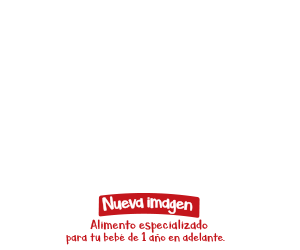
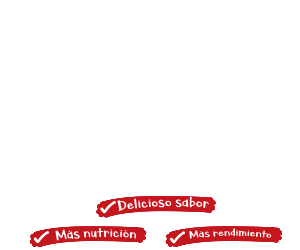
ok

Changed region(s): [[0.09, 0.756, 0.96, 1.0]]

diff --git a/Ceteco/CrecimientoBalanceado2/300x250/index.html b/Ceteco/CrecimientoBalanceado2/300x250/index.html
@@ -1,12 +1,12 @@
 <!DOCTYPE html>
[2 lines of base64/hex data omitted]
   <meta charset="utf-8">
   <meta name="viewport" content="width=device-width,minimum-scale=1">
   <meta name="generator" content="Google Web Designer 9.0.1.0902">
   <meta name="environment" content="gwd-googleads"><meta name="ad.size" content="width=300,height=250">
   <script async="" src="https://cdn.ampproject.org/amp4ads-v0.js"></script>
   <style amp4ads-boilerplate="">body{visibility:hidden}</style>
-  <style amp-custom="">html,body{width:100%;height:100%;margin:0px}p,h1,h2,h3{margin:0px}.gwd-page-container{position:relative;width:100%;height:100%}.gwd-page-content{background-color:transparent;transform:matrix3d(1, 0, 0, 0, 0, 1, 0, 0, 0, 0, 1, 0, 0, 0, 0, 1);-webkit-transform:matrix3d(1, 0, 0, 0, 0, 1, 0, 0, 0, 0, 1, 0, 0, 0, 0, 1);-moz-transform:matrix3d(1, 0, 0, 0, 0, 1, 0, 0, 0, 0, 1, 0, 0, 0, 0, 1);perspective:1400px;-webkit-perspective:1400px;-moz-perspective:1400px;transform-style:preserve-3d;-webkit-transform-style:preserve-3d;-moz-transform-style:preserve-3d;position:absolute}.gwd-page-container-wrapper{width:300px;height:250px}.gwd-page-wrapper{background-color:#fff;position:absolute;top:0px;left:0px;transform:translateZ(0);-webkit-transform:translateZ(0);-moz-transform:translateZ(0);width:300px;height:250px}.gwd-page-size{width:300px;height:250px}#pagedeck>.amp-carousel-button-prev,#pagedeck>.amp-carousel-button-next{display:none}.gwd-amp-img-hngt{position:absolute;width:300px;height:250px;left:50%;transform-style:preserve-3d;-webkit-transform-style:preserve-3d;-moz-transform-style:preserve-3d;top:50%;transform:translate3d(-150px, -125px, 0);-webkit-transform:translate3d(-150px, -125px, 0);-moz-transform:translate3d(-150px, -125px, 0)}.gwd-amp-img-ov7r{position:absolute;width:300px;height:250px;left:50%;transform-style:preserve-3d;-webkit-transform-style:preserve-3d;-moz-transform-style:preserve-3d;top:50%;transform:translate3d(-300px, -125px, 0);-webkit-transform:translate3d(-300px, -125px, 0);-moz-transform:translate3d(-300px, -125px, 0);opacity:0}.gwd-amp-img-oeb3{position:absolute;width:300px;height:250px;left:50%;transform-style:preserve-3d;-webkit-transform-style:preserve-3d;-moz-transform-style:preserve-3d;top:50%;transform-origin:152px 187px 0px;-webkit-transform-origin:152px 187px 0px;-moz-transform-origin:152px 187px 0px;transform:translate3d(-150px, -125px, 0) scale3d(.22, .22, .22);-webkit-transform:translate3d(-150px, -125px, 0) scale3d(.22, .22, .22);-moz-transform:translate3d(-150px, -125px, 0) scale3d(.22, .22, .22);opacity:0}.gwd-amp-img-u6o0{position:absolute;width:300px;height:250px;left:50%;transform-style:preserve-3d;-webkit-transform-style:preserve-3d;-moz-transform-style:preserve-3d;top:50%;transform:translate3d(-280px, -125px, 0);-webkit-transform:translate3d(-280px, -125px, 0);-moz-transform:translate3d(-280px, -125px, 0);opacity:0}.gwd-amp-img-1jvn{position:absolute;width:300px;height:250px;left:50%;transform-style:preserve-3d;-webkit-transform-style:preserve-3d;-moz-transform-style:preserve-3d;top:50%;transform:translate3d(-40px, -125px, 0);-webkit-transform:translate3d(-40px, -125px, 0);-moz-transform:translate3d(-40px, -125px, 0);opacity:0}#page1.gwd-play-animation .gwd-gen-q78fgwdanimation{animation:4.5s linear 0s 1 normal forwards gwd-gen-q78fgwdanimation_gwd-keyframes;-webkit-animation:4.5s linear 0s 1 normal forwards gwd-gen-q78fgwdanimation_gwd-keyframes;-moz-animation:4.5s linear 0s 1 normal forwards gwd-gen-q78fgwdanimation_gwd-keyframes}#page1.gwd-play-animation .gwd-gen-12rzgwdanimation{animation:4.5s linear 0s 1 normal forwards gwd-gen-12rzgwdanimation_gwd-keyframes;-webkit-animation:4.5s linear 0s 1 normal forwards gwd-gen-12rzgwdanimation_gwd-keyframes;-moz-animation:4.5s linear 0s 1 normal forwards gwd-gen-12rzgwdanimation_gwd-keyframes}#page1.gwd-play-animation .gwd-gen-o9vbgwdanimation{animation:1.3s linear 0s 1 normal forwards gwd-gen-o9vbgwdanimation_gwd-keyframes;-webkit-animation:1.3s linear 0s 1 normal forwards gwd-gen-o9vbgwdanimation_gwd-keyframes;-moz-animation:1.3s linear 0s 1 normal forwards gwd-gen-o9vbgwdanimation_gwd-keyframes}#page1.gwd-play-animation .gwd-gen-1jnggwdanimation{animation:1s linear 0s 1 normal forwards gwd-gen-1jnggwdanimation_gwd-keyframes;-webkit-animation:1s linear 0s 1 normal forwards gwd-gen-1jnggwdanimation_gwd-keyframes;-moz-animation:1s linear 0s 1 normal forwards gwd-gen-1jnggwdanimation_gwd-keyframes}#page1.label-1 .gwd-gen-1jnggwdanimation{animation:1s linear 0s 1 normal forwards gwd-gen-1jnggwdanimation_gwd-keyframes_label-1;-webkit-animation:1s linear 0s 1 normal forwards gwd-gen-1jnggwdanimation_gwd-keyframes_label-1;-moz-animation:1s linear 0s 1 normal forwards gwd-gen-1jnggwdanimation_gwd-keyframes_label-1}#page1.label-1 .gwd-gen-o9vbgwdanimation{animation:1.3s linear 0s 1 normal forwards gwd-gen-o9vbgwdanimation_gwd-keyframes_label-1;-webkit-animation:1.3s linear 0s 1 normal forwards gwd-gen-o9vbgwdanimation_gwd-keyframes_label-1;-moz-animation:1.3s linear 0s 1 normal forwards gwd-gen-o9vbgwdanimation_gwd-keyframes_label-1}#page1.label-1 .gwd-gen-12rzgwdanimation{animation:4.5s linear 0s 1 normal forwards gwd-gen-12rzgwdanimation_gwd-keyframes_label-1;-webkit-animation:4.5s linear 0s 1 normal forwards gwd-gen-12rzgwdanimation_gwd-keyframes_label-1;-moz-animation:4.5s linear 0s 1 normal forwards gwd-gen-12rzgwdanimation_gwd-keyframes_label-1}#page1.label-1 .gwd-gen-q78fgwdanimation{animation:4.5s linear 0s 1 normal forwards gwd-gen-q78fgwdanimation_gwd-keyframes_label-1;-webkit-animation:4.5s linear 0s 1 normal forwards gwd-gen-q78fgwdanimation_gwd-keyframes_label-1;-moz-animation:4.5s linear 0s 1 normal forwards gwd-gen-q78fgwdanimation_gwd-keyframes_label-1}#page1.gwd-play-animation .event-1-animation{animation:6.5s linear 0s 1 normal forwards gwd-empty-animation;-webkit-animation:6.5s linear 0s 1 normal forwards gwd-empty-animation;-moz-animation:6.5s linear 0s 1 normal forwards gwd-empty-animation}#page1.label-1 .event-1-animation{animation:6.5s linear 0s 1 normal forwards gwd-empty-animation_label-1;-webkit-animation:6.5s linear 0s 1 normal forwards gwd-empty-animation_label-1;-moz-animation:6.5s linear 0s 1 normal forwards gwd-empty-animation_label-1}</style>
+  <style amp-custom="">html,body{width:100%;height:100%;margin:0px}p,h1,h2,h3{margin:0px}.gwd-page-container{position:relative;width:100%;height:100%}.gwd-page-content{background-color:transparent;transform:matrix3d(1, 0, 0, 0, 0, 1, 0, 0, 0, 0, 1, 0, 0, 0, 0, 1);-webkit-transform:matrix3d(1, 0, 0, 0, 0, 1, 0, 0, 0, 0, 1, 0, 0, 0, 0, 1);-moz-transform:matrix3d(1, 0, 0, 0, 0, 1, 0, 0, 0, 0, 1, 0, 0, 0, 0, 1);perspective:1400px;-webkit-perspective:1400px;-moz-perspective:1400px;transform-style:preserve-3d;-webkit-transform-style:preserve-3d;-moz-transform-style:preserve-3d;position:absolute}.gwd-page-container-wrapper{width:300px;height:250px}.gwd-page-wrapper{background-color:#fff;position:absolute;top:0px;left:0px;transform:translateZ(0);-webkit-transform:translateZ(0);-moz-transform:translateZ(0);width:300px;height:250px}.gwd-page-size{width:300px;height:250px}#pagedeck>.amp-carousel-button-prev,#pagedeck>.amp-carousel-button-next{display:none}.gwd-amp-img-hngt{position:absolute;width:300px;height:250px;left:50%;transform-style:preserve-3d;-webkit-transform-style:preserve-3d;-moz-transform-style:preserve-3d;top:50%;transform:translate3d(-150px, -125px, 0);-webkit-transform:translate3d(-150px, -125px, 0);-moz-transform:translate3d(-150px, -125px, 0)}.gwd-amp-img-ov7r{position:absolute;width:300px;height:250px;left:50%;transform-style:preserve-3d;-webkit-transform-style:preserve-3d;-moz-transform-style:preserve-3d;top:50%;transform:translate3d(-300px, -125px, 0);-webkit-transform:translate3d(-300px, -125px, 0);-moz-transform:translate3d(-300px, -125px, 0);opacity:0}.gwd-amp-img-oeb3{position:absolute;width:300px;height:250px;left:50%;transform-style:preserve-3d;-webkit-transform-style:preserve-3d;-moz-transform-style:preserve-3d;top:50%;transform-origin:152px 187px 0px;-webkit-transform-origin:152px 187px 0px;-moz-transform-origin:152px 187px 0px;transform:translate3d(-150px, -125px, 0) scale3d(.22, .22, .22);-webkit-transform:translate3d(-150px, -125px, 0) scale3d(.22, .22, .22);-moz-transform:translate3d(-150px, -125px, 0) scale3d(.22, .22, .22);opacity:0}.gwd-amp-img-u6o0{position:absolute;width:300px;height:250px;left:50%;transform-style:preserve-3d;-webkit-transform-style:preserve-3d;-moz-transform-style:preserve-3d;top:50%;transform:translate3d(-280px, -125px, 0);-webkit-transform:translate3d(-280px, -125px, 0);-moz-transform:translate3d(-280px, -125px, 0);opacity:0}.gwd-amp-img-1jvn{position:absolute;width:300px;height:250px;left:50%;transform-style:preserve-3d;-webkit-transform-style:preserve-3d;-moz-transform-style:preserve-3d;top:50%;transform:translate3d(-40px, -125px, 0);-webkit-transform:translate3d(-40px, -125px, 0);-moz-transform:translate3d(-40px, -125px, 0);opacity:0}#page1.gwd-play-animation .gwd-gen-q78fgwdanimation{animation:1.9s linear 0s 1 normal forwards gwd-gen-q78fgwdanimation_gwd-keyframes;-webkit-animation:1.9s linear 0s 1 normal forwards gwd-gen-q78fgwdanimation_gwd-keyframes;-moz-animation:1.9s linear 0s 1 normal forwards gwd-gen-q78fgwdanimation_gwd-keyframes}#page1.gwd-play-animation .gwd-gen-12rzgwdanimation{animation:1.6s linear 0s 1 normal forwards gwd-gen-12rzgwdanimation_gwd-keyframes;-webkit-animation:1.6s linear 0s 1 normal forwards gwd-gen-12rzgwdanimation_gwd-keyframes;-moz-animation:1.6s linear 0s 1 normal forwards gwd-gen-12rzgwdanimation_gwd-keyframes}#page1.gwd-play-animation .gwd-gen-o9vbgwdanimation{animation:1.3s linear 0s 1 normal forwards gwd-gen-o9vbgwdanimation_gwd-keyframes;-webkit-animation:1.3s linear 0s 1 normal forwards gwd-gen-o9vbgwdanimation_gwd-keyframes;-moz-animation:1.3s linear 0s 1 normal forwards gwd-gen-o9vbgwdanimation_gwd-keyframes}#page1.gwd-play-animation .gwd-gen-1jnggwdanimation{animation:1s linear 0s 1 normal forwards gwd-gen-1jnggwdanimation_gwd-keyframes;-webkit-animation:1s linear 0s 1 normal forwards gwd-gen-1jnggwdanimation_gwd-keyframes;-moz-animation:1s linear 0s 1 normal forwards gwd-gen-1jnggwdanimation_gwd-keyframes}#page1.label-1 .gwd-gen-1jnggwdanimation{animation:1s linear 0s 1 normal forwards gwd-gen-1jnggwdanimation_gwd-keyframes_label-1;-webkit-animation:1s linear 0s 1 normal forwards gwd-gen-1jnggwdanimation_gwd-keyframes_label-1;-moz-animation:1s linear 0s 1 normal forwards gwd-gen-1jnggwdanimation_gwd-keyframes_label-1}#page1.label-1 .gwd-gen-o9vbgwdanimation{animation:1.3s linear 0s 1 normal forwards gwd-gen-o9vbgwdanimation_gwd-keyframes_label-1;-webkit-animation:1.3s linear 0s 1 normal forwards gwd-gen-o9vbgwdanimation_gwd-keyframes_label-1;-moz-animation:1.3s linear 0s 1 normal forwards gwd-gen-o9vbgwdanimation_gwd-keyframes_label-1}#page1.label-1 .gwd-gen-12rzgwdanimation{animation:1.6s linear 0s 1 normal forwards gwd-gen-12rzgwdanimation_gwd-keyframes_label-1;-webkit-animation:1.6s linear 0s 1 normal forwards gwd-gen-12rzgwdanimation_gwd-keyframes_label-1;-moz-animation:1.6s linear 0s 1 normal forwards gwd-gen-12rzgwdanimation_gwd-keyframes_label-1}#page1.label-1 .gwd-gen-q78fgwdanimation{animation:1.9s linear 0s 1 normal forwards gwd-gen-q78fgwdanimation_gwd-keyframes_label-1;-webkit-animation:1.9s linear 0s 1 normal forwards gwd-gen-q78fgwdanimation_gwd-keyframes_label-1;-moz-animation:1.9s linear 0s 1 normal forwards gwd-gen-q78fgwdanimation_gwd-keyframes_label-1}#page1.gwd-play-animation .event-1-animation{animation:4s linear 0s 1 normal forwards gwd-empty-animation;-webkit-animation:4s linear 0s 1 normal forwards gwd-empty-animation;-moz-animation:4s linear 0s 1 normal forwards gwd-empty-animation}#page1.label-1 .event-1-animation{animation:4s linear 0s 1 normal forwards gwd-empty-animation_label-1;-webkit-animation:4s linear 0s 1 normal forwards gwd-empty-animation_label-1;-moz-animation:4s linear 0s 1 normal forwards gwd-empty-animation_label-1}</style>
   <script data-source="https://cdn.ampproject.org/v0/amp-gwd-animation-0.1.js" async="" custom-element="amp-gwd-animation" src="https://cdn.ampproject.org/v0/amp-gwd-animation-0.1.js"></script>
   <script data-source="https://cdn.ampproject.org/v0/amp-ad-exit-0.1.js" async="" custom-element="amp-ad-exit" src="https://cdn.ampproject.org/v0/amp-ad-exit-0.1.js"></script>
   <script data-source="https://cdn.ampproject.org/v0/amp-carousel-0.1.js" async="" custom-element="amp-carousel" src="https://cdn.ampproject.org/v0/amp-carousel-0.1.js"></script>
@@ -22,7 +22,7 @@
           <amp-img id="3" src="3.png" class="gwd-amp-img-oeb3 gwd-gen-o9vbgwdanimation" width="300px" height="250px"></amp-img>
           <amp-img id="4" src="4.png" class="gwd-amp-img-u6o0 gwd-gen-12rzgwdanimation" width="300px" height="250px"></amp-img>
           <amp-img id="5" src="5.png" class="gwd-amp-img-1jvn gwd-gen-q78fgwdanimation" width="300px" height="250px"></amp-img>
-          <div class="gwd-animation-event event-1-animation" data-event-name="event-1" data-event-time="6500"></div>
+          <div class="gwd-animation-event event-1-animation" data-event-name="event-1" data-event-time="4000"></div>
         </div>
       </div>
     </amp-carousel>
@@ -34,4 +34,4 @@
   </amp-ad-exit>
 
 
-<style amp-keyframes="">@keyframes gwd-gen-q78fgwdanimation_gwd-keyframes{0%{opacity:0;transform:translate3d(-40px, -125px, 0);-webkit-transform:translate3d(-40px, -125px, 0);-moz-transform:translate3d(-40px, -125px, 0);animation-timing-function:linear;-webkit-animation-timing-function:linear;-moz-animation-timing-function:linear}88.8889%{opacity:0;transform:translate3d(-40px, -125px, 0);-webkit-transform:translate3d(-40px, -125px, 0);-moz-transform:translate3d(-40px, -125px, 0);animation-timing-function:ease;-webkit-animation-timing-function:ease;-moz-animation-timing-function:ease}100%{opacity:1;transform:translate3d(-150px, -125px, 0);-webkit-transform:translate3d(-150px, -125px, 0);-moz-transform:translate3d(-150px, -125px, 0);animation-timing-function:linear;-webkit-animation-timing-function:linear;-moz-animation-timing-function:linear}}@-webkit-keyframes gwd-gen-q78fgwdanimation_gwd-keyframes{0%{opacity:0;-webkit-transform:translate3d(-40px, -125px, 0);-webkit-animation-timing-function:linear}88.8889%{opacity:0;-webkit-transform:translate3d(-40px, -125px, 0);-webkit-animation-timing-function:ease}100%{opacity:1;-webkit-transform:translate3d(-150px, -125px, 0);-webkit-animation-timing-function:linear}}@-moz-keyframes gwd-gen-q78fgwdanimation_gwd-keyframes{0%{opacity:0;-moz-transform:translate3d(-40px, -125px, 0);-moz-animation-timing-function:linear}88.8889%{opacity:0;-moz-transform:translate3d(-40px, -125px, 0);-moz-animation-timing-function:ease}100%{opacity:1;-moz-transform:translate3d(-150px, -125px, 0);-moz-animation-timing-function:linear}}@keyframes gwd-gen-12rzgwdanimation_gwd-keyframes{0%{opacity:0;transform:translate3d(-280px, -125px, 0);-webkit-transform:translate3d(-280px, -125px, 0);-moz-transform:translate3d(-280px, -125px, 0);animation-timing-function:linear;-webkit-animation-timing-function:linear;-moz-animation-timing-function:linear}24.4444%{opacity:0;transform:translate3d(-280px, -125px, 0);-webkit-transform:translate3d(-280px, -125px, 0);-moz-transform:translate3d(-280px, -125px, 0);animation-timing-function:ease;-webkit-animation-timing-function:ease;-moz-animation-timing-function:ease}35.5556%{opacity:1;transform:translate3d(-150px, -125px, 0);-webkit-transform:translate3d(-150px, -125px, 0);-moz-transform:translate3d(-150px, -125px, 0);animation-timing-function:linear;-webkit-animation-timing-function:linear;-moz-animation-timing-function:linear}88.8889%{opacity:1;transform:translate3d(-150px, -125px, 0);-webkit-transform:translate3d(-150px, -125px, 0);-moz-transform:translate3d(-150px, -125px, 0);animation-timing-function:ease;-webkit-animation-timing-function:ease;-moz-animation-timing-function:ease}100%{opacity:0;transform:translate3d(-370px, -125px, 0);-webkit-transform:translate3d(-370px, -125px, 0);-moz-transform:translate3d(-370px, -125px, 0);animation-timing-function:linear;-webkit-animation-timing-function:linear;-moz-animation-timing-function:linear}}@-webkit-keyframes gwd-gen-12rzgwdanimation_gwd-keyframes{0%{opacity:0;-webkit-transform:translate3d(-280px, -125px, 0);-webkit-animation-timing-function:linear}24.4444%{opacity:0;-webkit-transform:translate3d(-280px, -125px, 0);-webkit-animation-timing-function:ease}35.5556%{opacity:1;-webkit-transform:translate3d(-150px, -125px, 0);-webkit-animation-timing-function:linear}88.8889%{opacity:1;-webkit-transform:translate3d(-150px, -125px, 0);-webkit-animation-timing-function:ease}100%{opacity:0;-webkit-transform:translate3d(-370px, -125px, 0);-webkit-animation-timing-function:linear}}@-moz-keyframes gwd-gen-12rzgwdanimation_gwd-keyframes{0%{opacity:0;-moz-transform:translate3d(-280px, -125px, 0);-moz-animation-timing-function:linear}24.4444%{opacity:0;-moz-transform:translate3d(-280px, -125px, 0);-moz-animation-timing-function:ease}35.5556%{opacity:1;-moz-transform:translate3d(-150px, -125px, 0);-moz-animation-timing-function:linear}88.8889%{opacity:1;-moz-transform:translate3d(-150px, -125px, 0);-moz-animation-timing-function:ease}100%{opacity:0;-moz-transform:translate3d(-370px, -125px, 0);-moz-animation-timing-function:linear}}@keyframes gwd-gen-o9vbgwdanimation_gwd-keyframes{0%{opacity:0;transform:translate3d(-150px, -125px, 0) scale3d(.22, .22, .22);-webkit-transform:translate3d(-150px, -125px, 0) scale3d(.22, .22, .22);-moz-transform:translate3d(-150px, -125px, 0) scale3d(.22, .22, .22);animation-timing-function:linear;-webkit-animation-timing-function:linear;-moz-animation-timing-function:linear}61.5385%{opacity:0;transform:translate3d(-150px, -125px, 0) scale3d(.22, .22, .22);-webkit-transform:translate3d(-150px, -125px, 0) scale3d(.22, .22, .22);-moz-transform:translate3d(-150px, -125px, 0) scale3d(.22, .22, .22);animation-timing-function:ease;-webkit-animation-timing-function:ease;-moz-animation-timing-function:ease}100%{opacity:1;transform:translate3d(-152px, -125px, 0) scale3d(1, 1, 1);-webkit-transform:translate3d(-152px, -125px, 0) scale3d(1, 1, 1);-moz-transform:translate3d(-152px, -125px, 0) scale3d(1, 1, 1);animation-timing-function:linear;-webkit-animation-timing-function:linear;-moz-animation-timing-function:linear}}@-webkit-keyframes gwd-gen-o9vbgwdanimation_gwd-keyframes{0%{opacity:0;-webkit-transform:translate3d(-150px, -125px, 0) scale3d(.22, .22, .22);-webkit-animation-timing-function:linear}61.5385%{opacity:0;-webkit-transform:translate3d(-150px, -125px, 0) scale3d(.22, .22, .22);-webkit-animation-timing-function:ease}100%{opacity:1;-webkit-transform:translate3d(-152px, -125px, 0) scale3d(1, 1, 1);-webkit-animation-timing-function:linear}}@-moz-keyframes gwd-gen-o9vbgwdanimation_gwd-keyframes{0%{opacity:0;-moz-transform:translate3d(-150px, -125px, 0) scale3d(.22, .22, .22);-moz-animation-timing-function:linear}61.5385%{opacity:0;-moz-transform:translate3d(-150px, -125px, 0) scale3d(.22, .22, .22);-moz-animation-timing-function:ease}100%{opacity:1;-moz-transform:translate3d(-152px, -125px, 0) scale3d(1, 1, 1);-moz-animation-timing-function:linear}}@keyframes gwd-gen-1jnggwdanimation_gwd-keyframes{0%{opacity:0;transform:translate3d(-300px, -125px, 0);-webkit-transform:translate3d(-300px, -125px, 0);-moz-transform:translate3d(-300px, -125px, 0);animation-timing-function:linear;-webkit-animation-timing-function:linear;-moz-animation-timing-function:linear}50%{opacity:0;transform:translate3d(-300px, -125px, 0);-webkit-transform:translate3d(-300px, -125px, 0);-moz-transform:translate3d(-300px, -125px, 0);animation-timing-function:ease;-webkit-animation-timing-function:ease;-moz-animation-timing-function:ease}100%{opacity:1;transform:translate3d(-150px, -125px, 0);-webkit-transform:translate3d(-150px, -125px, 0);-moz-transform:translate3d(-150px, -125px, 0);animation-timing-function:linear;-webkit-animation-timing-function:linear;-moz-animation-timing-function:linear}}@-webkit-keyframes gwd-gen-1jnggwdanimation_gwd-keyframes{0%{opacity:0;-webkit-transform:translate3d(-300px, -125px, 0);-webkit-animation-timing-function:linear}50%{opacity:0;-webkit-transform:translate3d(-300px, -125px, 0);-webkit-animation-timing-function:ease}100%{opacity:1;-webkit-transform:translate3d(-150px, -125px, 0);-webkit-animation-timing-function:linear}}@-moz-keyframes gwd-gen-1jnggwdanimation_gwd-keyframes{0%{opacity:0;-moz-transform:translate3d(-300px, -125px, 0);-moz-animation-timing-function:linear}50%{opacity:0;-moz-transform:translate3d(-300px, -125px, 0);-moz-animation-timing-function:ease}100%{opacity:1;-moz-transform:translate3d(-150px, -125px, 0);-moz-animation-timing-function:linear}}@keyframes gwd-gen-1jnggwdanimation_gwd-keyframes_label-1{0%{opacity:0;transform:translate3d(-300px, -125px, 0);-webkit-transform:translate3d(-300px, -125px, 0);-moz-transform:translate3d(-300px, -125px, 0);animation-timing-function:linear;-webkit-animation-timing-function:linear;-moz-animation-timing-function:linear}50%{opacity:0;transform:translate3d(-300px, -125px, 0);-webkit-transform:translate3d(-300px, -125px, 0);-moz-transform:translate3d(-300px, -125px, 0);animation-timing-function:ease;-webkit-animation-timing-function:ease;-moz-animation-timing-function:ease}100%{opacity:1;transform:translate3d(-150px, -125px, 0);-webkit-transform:translate3d(-150px, -125px, 0);-moz-transform:translate3d(-150px, -125px, 0);animation-timing-function:linear;-webkit-animation-timing-function:linear;-moz-animation-timing-function:linear}}@-webkit-keyframes gwd-gen-1jnggwdanimation_gwd-keyframes_label-1{0%{opacity:0;-webkit-transform:translate3d(-300px, -125px, 0);-webkit-animation-timing-function:linear}50%{opacity:0;-webkit-transform:translate3d(-300px, -125px, 0);-webkit-animation-timing-function:ease}100%{opacity:1;-webkit-transform:translate3d(-150px, -125px, 0);-webkit-animation-timing-function:linear}}@-moz-keyframes gwd-gen-1jnggwdanimation_gwd-keyframes_label-1{0%{opacity:0;-moz-transform:translate3d(-300px, -125px, 0);-moz-animation-timing-function:linear}50%{opacity:0;-moz-transform:translate3d(-300px, -125px, 0);-moz-animation-timing-function:ease}100%{opacity:1;-moz-transform:translate3d(-150px, -125px, 0);-moz-animation-timing-function:linear}}@keyframes gwd-gen-o9vbgwdanimation_gwd-keyframes_label-1{0%{opacity:0;transform:translate3d(-150px, -125px, 0) scale3d(.22, .22, .22);-webkit-transform:translate3d(-150px, -125px, 0) scale3d(.22, .22, .22);-moz-transform:translate3d(-150px, -125px, 0) scale3d(.22, .22, .22);animation-timing-function:linear;-webkit-animation-timing-function:linear;-moz-animation-timing-function:linear}61.5385%{opacity:0;transform:translate3d(-150px, -125px, 0) scale3d(.22, .22, .22);-webkit-transform:translate3d(-150px, -125px, 0) scale3d(.22, .22, .22);-moz-transform:translate3d(-150px, -125px, 0) scale3d(.22, .22, .22);animation-timing-function:ease;-webkit-animation-timing-function:ease;-moz-animation-timing-function:ease}100%{opacity:1;transform:translate3d(-152px, -125px, 0) scale3d(1, 1, 1);-webkit-transform:translate3d(-152px, -125px, 0) scale3d(1, 1, 1);-moz-transform:translate3d(-152px, -125px, 0) scale3d(1, 1, 1);animation-timing-function:linear;-webkit-animation-timing-function:linear;-moz-animation-timing-function:linear}}@-webkit-keyframes gwd-gen-o9vbgwdanimation_gwd-keyframes_label-1{0%{opacity:0;-webkit-transform:translate3d(-150px, -125px, 0) scale3d(.22, .22, .22);-webkit-animation-timing-function:linear}61.5385%{opacity:0;-webkit-transform:translate3d(-150px, -125px, 0) scale3d(.22, .22, .22);-webkit-animation-timing-function:ease}100%{opacity:1;-webkit-transform:translate3d(-152px, -125px, 0) scale3d(1, 1, 1);-webkit-animation-timing-function:linear}}@-moz-keyframes gwd-gen-o9vbgwdanimation_gwd-keyframes_label-1{0%{opacity:0;-moz-transform:translate3d(-150px, -125px, 0) scale3d(.22, .22, .22);-moz-animation-timing-function:linear}61.5385%{opacity:0;-moz-transform:translate3d(-150px, -125px, 0) scale3d(.22, .22, .22);-moz-animation-timing-function:ease}100%{opacity:1;-moz-transform:translate3d(-152px, -125px, 0) scale3d(1, 1, 1);-moz-animation-timing-function:linear}}@keyframes gwd-gen-12rzgwdanimation_gwd-keyframes_label-1{0%{opacity:0;transform:translate3d(-280px, -125px, 0);-webkit-transform:translate3d(-280px, -125px, 0);-moz-transform:translate3d(-280px, -125px, 0);animation-timing-function:linear;-webkit-animation-timing-function:linear;-moz-animation-timing-function:linear}24.4444%{opacity:0;transform:translate3d(-280px, -125px, 0);-webkit-transform:translate3d(-280px, -125px, 0);-moz-transform:translate3d(-280px, -125px, 0);animation-timing-function:ease;-webkit-animation-timing-function:ease;-moz-animation-timing-function:ease}35.5556%{opacity:1;transform:translate3d(-150px, -125px, 0);-webkit-transform:translate3d(-150px, -125px, 0);-moz-transform:translate3d(-150px, -125px, 0);animation-timing-function:linear;-webkit-animation-timing-function:linear;-moz-animation-timing-function:linear}88.8889%{opacity:1;transform:translate3d(-150px, -125px, 0);-webkit-transform:translate3d(-150px, -125px, 0);-moz-transform:translate3d(-150px, -125px, 0);animation-timing-function:ease;-webkit-animation-timing-function:ease;-moz-animation-timing-function:ease}100%{opacity:0;transform:translate3d(-370px, -125px, 0);-webkit-transform:translate3d(-370px, -125px, 0);-moz-transform:translate3d(-370px, -125px, 0);animation-timing-function:linear;-webkit-animation-timing-function:linear;-moz-animation-timing-function:linear}}@-webkit-keyframes gwd-gen-12rzgwdanimation_gwd-keyframes_label-1{0%{opacity:0;-webkit-transform:translate3d(-280px, -125px, 0);-webkit-animation-timing-function:linear}24.4444%{opacity:0;-webkit-transform:translate3d(-280px, -125px, 0);-webkit-animation-timing-function:ease}35.5556%{opacity:1;-webkit-transform:translate3d(-150px, -125px, 0);-webkit-animation-timing-function:linear}88.8889%{opacity:1;-webkit-transform:translate3d(-150px, -125px, 0);-webkit-animation-timing-function:ease}100%{opacity:0;-webkit-transform:translate3d(-370px, -125px, 0);-webkit-animation-timing-function:linear}}@-moz-keyframes gwd-gen-12rzgwdanimation_gwd-keyframes_label-1{0%{opacity:0;-moz-transform:translate3d(-280px, -125px, 0);-moz-animation-timing-function:linear}24.4444%{opacity:0;-moz-transform:translate3d(-280px, -125px, 0);-moz-animation-timing-function:ease}35.5556%{opacity:1;-moz-transform:translate3d(-150px, -125px, 0);-moz-animation-timing-function:linear}88.8889%{opacity:1;-moz-transform:translate3d(-150px, -125px, 0);-moz-animation-timing-function:ease}100%{opacity:0;-moz-transform:translate3d(-370px, -125px, 0);-moz-animation-timing-function:linear}}@keyframes gwd-gen-q78fgwdanimation_gwd-keyframes_label-1{0%{opacity:0;transform:translate3d(-40px, -125px, 0);-webkit-transform:translate3d(-40px, -125px, 0);-moz-transform:translate3d(-40px, -125px, 0);animation-timing-function:linear;-webkit-animation-timing-function:linear;-moz-animation-timing-function:linear}88.8889%{opacity:0;transform:translate3d(-40px, -125px, 0);-webkit-transform:translate3d(-40px, -125px, 0);-moz-transform:translate3d(-40px, -125px, 0);animation-timing-function:ease;-webkit-animation-timing-function:ease;-moz-animation-timing-function:ease}100%{opacity:1;transform:translate3d(-150px, -125px, 0);-webkit-transform:translate3d(-150px, -125px, 0);-moz-transform:translate3d(-150px, -125px, 0);animation-timing-function:linear;-webkit-animation-timing-function:linear;-moz-animation-timing-function:linear}}@-webkit-keyframes gwd-gen-q78fgwdanimation_gwd-keyframes_label-1{0%{opacity:0;-webkit-transform:translate3d(-40px, -125px, 0);-webkit-animation-timing-function:linear}88.8889%{opacity:0;-webkit-transform:translate3d(-40px, -125px, 0);-webkit-animation-timing-function:ease}100%{opacity:1;-webkit-transform:translate3d(-150px, -125px, 0);-webkit-animation-timing-function:linear}}@-moz-keyframes gwd-gen-q78fgwdanimation_gwd-keyframes_label-1{0%{opacity:0;-moz-transform:translate3d(-40px, -125px, 0);-moz-animation-timing-function:linear}88.8889%{opacity:0;-moz-transform:translate3d(-40px, -125px, 0);-moz-animation-timing-function:ease}100%{opacity:1;-moz-transform:translate3d(-150px, -125px, 0);-moz-animation-timing-function:linear}}@keyframes gwd-empty-animation{0%{opacity:0.001}100%{opacity:0}}@-webkit-keyframes gwd-empty-animation{0%{opacity:0.001}100%{opacity:0}}@-moz-keyframes gwd-empty-animation{0%{opacity:0.001}100%{opacity:0}}@keyframes gwd-empty-animation_label-1{0%{opacity:0.001}100%{opacity:0}}@-webkit-keyframes gwd-empty-animation_label-1{0%{opacity:0.001}100%{opacity:0}}@-moz-keyframes gwd-empty-animation_label-1{0%{opacity:0.001}100%{opacity:0}}</style></body></html>
+<style amp-keyframes="">@keyframes gwd-gen-q78fgwdanimation_gwd-keyframes{0%{opacity:0;transform:translate3d(-40px, -125px, 0);-webkit-transform:translate3d(-40px, -125px, 0);-moz-transform:translate3d(-40px, -125px, 0);animation-timing-function:linear;-webkit-animation-timing-function:linear;-moz-animation-timing-function:linear}73.6842%{opacity:0;transform:translate3d(-40px, -125px, 0);-webkit-transform:translate3d(-40px, -125px, 0);-moz-transform:translate3d(-40px, -125px, 0);animation-timing-function:ease;-webkit-animation-timing-function:ease;-moz-animation-timing-function:ease}100%{opacity:1;transform:translate3d(-150px, -125px, 0);-webkit-transform:translate3d(-150px, -125px, 0);-moz-transform:translate3d(-150px, -125px, 0);animation-timing-function:linear;-webkit-animation-timing-function:linear;-moz-animation-timing-function:linear}}@-webkit-keyframes gwd-gen-q78fgwdanimation_gwd-keyframes{0%{opacity:0;-webkit-transform:translate3d(-40px, -125px, 0);-webkit-animation-timing-function:linear}73.6842%{opacity:0;-webkit-transform:translate3d(-40px, -125px, 0);-webkit-animation-timing-function:ease}100%{opacity:1;-webkit-transform:translate3d(-150px, -125px, 0);-webkit-animation-timing-function:linear}}@-moz-keyframes gwd-gen-q78fgwdanimation_gwd-keyframes{0%{opacity:0;-moz-transform:translate3d(-40px, -125px, 0);-moz-animation-timing-function:linear}73.6842%{opacity:0;-moz-transform:translate3d(-40px, -125px, 0);-moz-animation-timing-function:ease}100%{opacity:1;-moz-transform:translate3d(-150px, -125px, 0);-moz-animation-timing-function:linear}}@keyframes gwd-gen-12rzgwdanimation_gwd-keyframes{0%{opacity:0;transform:translate3d(-280px, -125px, 0);-webkit-transform:translate3d(-280px, -125px, 0);-moz-transform:translate3d(-280px, -125px, 0);animation-timing-function:linear;-webkit-animation-timing-function:linear;-moz-animation-timing-function:linear}68.75%{opacity:0;transform:translate3d(-280px, -125px, 0);-webkit-transform:translate3d(-280px, -125px, 0);-moz-transform:translate3d(-280px, -125px, 0);animation-timing-function:ease;-webkit-animation-timing-function:ease;-moz-animation-timing-function:ease}100%{opacity:1;transform:translate3d(-150px, -125px, 0);-webkit-transform:translate3d(-150px, -125px, 0);-moz-transform:translate3d(-150px, -125px, 0);animation-timing-function:linear;-webkit-animation-timing-function:linear;-moz-animation-timing-function:linear}}@-webkit-keyframes gwd-gen-12rzgwdanimation_gwd-keyframes{0%{opacity:0;-webkit-transform:translate3d(-280px, -125px, 0);-webkit-animation-timing-function:linear}68.75%{opacity:0;-webkit-transform:translate3d(-280px, -125px, 0);-webkit-animation-timing-function:ease}100%{opacity:1;-webkit-transform:translate3d(-150px, -125px, 0);-webkit-animation-timing-function:linear}}@-moz-keyframes gwd-gen-12rzgwdanimation_gwd-keyframes{0%{opacity:0;-moz-transform:translate3d(-280px, -125px, 0);-moz-animation-timing-function:linear}68.75%{opacity:0;-moz-transform:translate3d(-280px, -125px, 0);-moz-animation-timing-function:ease}100%{opacity:1;-moz-transform:translate3d(-150px, -125px, 0);-moz-animation-timing-function:linear}}@keyframes gwd-gen-o9vbgwdanimation_gwd-keyframes{0%{opacity:0;transform:translate3d(-150px, -125px, 0) scale3d(.22, .22, .22);-webkit-transform:translate3d(-150px, -125px, 0) scale3d(.22, .22, .22);-moz-transform:translate3d(-150px, -125px, 0) scale3d(.22, .22, .22);animation-timing-function:linear;-webkit-animation-timing-function:linear;-moz-animation-timing-function:linear}61.5385%{opacity:0;transform:translate3d(-150px, -125px, 0) scale3d(.22, .22, .22);-webkit-transform:translate3d(-150px, -125px, 0) scale3d(.22, .22, .22);-moz-transform:translate3d(-150px, -125px, 0) scale3d(.22, .22, .22);animation-timing-function:ease;-webkit-animation-timing-function:ease;-moz-animation-timing-function:ease}100%{opacity:1;transform:translate3d(-152px, -125px, 0) scale3d(1, 1, 1);-webkit-transform:translate3d(-152px, -125px, 0) scale3d(1, 1, 1);-moz-transform:translate3d(-152px, -125px, 0) scale3d(1, 1, 1);animation-timing-function:linear;-webkit-animation-timing-function:linear;-moz-animation-timing-function:linear}}@-webkit-keyframes gwd-gen-o9vbgwdanimation_gwd-keyframes{0%{opacity:0;-webkit-transform:translate3d(-150px, -125px, 0) scale3d(.22, .22, .22);-webkit-animation-timing-function:linear}61.5385%{opacity:0;-webkit-transform:translate3d(-150px, -125px, 0) scale3d(.22, .22, .22);-webkit-animation-timing-function:ease}100%{opacity:1;-webkit-transform:translate3d(-152px, -125px, 0) scale3d(1, 1, 1);-webkit-animation-timing-function:linear}}@-moz-keyframes gwd-gen-o9vbgwdanimation_gwd-keyframes{0%{opacity:0;-moz-transform:translate3d(-150px, -125px, 0) scale3d(.22, .22, .22);-moz-animation-timing-function:linear}61.5385%{opacity:0;-moz-transform:translate3d(-150px, -125px, 0) scale3d(.22, .22, .22);-moz-animation-timing-function:ease}100%{opacity:1;-moz-transform:translate3d(-152px, -125px, 0) scale3d(1, 1, 1);-moz-animation-timing-function:linear}}@keyframes gwd-gen-1jnggwdanimation_gwd-keyframes{0%{opacity:0;transform:translate3d(-300px, -125px, 0);-webkit-transform:translate3d(-300px, -125px, 0);-moz-transform:translate3d(-300px, -125px, 0);animation-timing-function:linear;-webkit-animation-timing-function:linear;-moz-animation-timing-function:linear}50%{opacity:0;transform:translate3d(-300px, -125px, 0);-webkit-transform:translate3d(-300px, -125px, 0);-moz-transform:translate3d(-300px, -125px, 0);animation-timing-function:ease;-webkit-animation-timing-function:ease;-moz-animation-timing-function:ease}100%{opacity:1;transform:translate3d(-150px, -125px, 0);-webkit-transform:translate3d(-150px, -125px, 0);-moz-transform:translate3d(-150px, -125px, 0);animation-timing-function:linear;-webkit-animation-timing-function:linear;-moz-animation-timing-function:linear}}@-webkit-keyframes gwd-gen-1jnggwdanimation_gwd-keyframes{0%{opacity:0;-webkit-transform:translate3d(-300px, -125px, 0);-webkit-animation-timing-function:linear}50%{opacity:0;-webkit-transform:translate3d(-300px, -125px, 0);-webkit-animation-timing-function:ease}100%{opacity:1;-webkit-transform:translate3d(-150px, -125px, 0);-webkit-animation-timing-function:linear}}@-moz-keyframes gwd-gen-1jnggwdanimation_gwd-keyframes{0%{opacity:0;-moz-transform:translate3d(-300px, -125px, 0);-moz-animation-timing-function:linear}50%{opacity:0;-moz-transform:translate3d(-300px, -125px, 0);-moz-animation-timing-function:ease}100%{opacity:1;-moz-transform:translate3d(-150px, -125px, 0);-moz-animation-timing-function:linear}}@keyframes gwd-gen-1jnggwdanimation_gwd-keyframes_label-1{0%{opacity:0;transform:translate3d(-300px, -125px, 0);-webkit-transform:translate3d(-300px, -125px, 0);-moz-transform:translate3d(-300px, -125px, 0);animation-timing-function:linear;-webkit-animation-timing-function:linear;-moz-animation-timing-function:linear}50%{opacity:0;transform:translate3d(-300px, -125px, 0);-webkit-transform:translate3d(-300px, -125px, 0);-moz-transform:translate3d(-300px, -125px, 0);animation-timing-function:ease;-webkit-animation-timing-function:ease;-moz-animation-timing-function:ease}100%{opacity:1;transform:translate3d(-150px, -125px, 0);-webkit-transform:translate3d(-150px, -125px, 0);-moz-transform:translate3d(-150px, -125px, 0);animation-timing-function:linear;-webkit-animation-timing-function:linear;-moz-animation-timing-function:linear}}@-webkit-keyframes gwd-gen-1jnggwdanimation_gwd-keyframes_label-1{0%{opacity:0;-webkit-transform:translate3d(-300px, -125px, 0);-webkit-animation-timing-function:linear}50%{opacity:0;-webkit-transform:translate3d(-300px, -125px, 0);-webkit-animation-timing-function:ease}100%{opacity:1;-webkit-transform:translate3d(-150px, -125px, 0);-webkit-animation-timing-function:linear}}@-moz-keyframes gwd-gen-1jnggwdanimation_gwd-keyframes_label-1{0%{opacity:0;-moz-transform:translate3d(-300px, -125px, 0);-moz-animation-timing-function:linear}50%{opacity:0;-moz-transform:translate3d(-300px, -125px, 0);-moz-animation-timing-function:ease}100%{opacity:1;-moz-transform:translate3d(-150px, -125px, 0);-moz-animation-timing-function:linear}}@keyframes gwd-gen-o9vbgwdanimation_gwd-keyframes_label-1{0%{opacity:0;transform:translate3d(-150px, -125px, 0) scale3d(.22, .22, .22);-webkit-transform:translate3d(-150px, -125px, 0) scale3d(.22, .22, .22);-moz-transform:translate3d(-150px, -125px, 0) scale3d(.22, .22, .22);animation-timing-function:linear;-webkit-animation-timing-function:linear;-moz-animation-timing-function:linear}61.5385%{opacity:0;transform:translate3d(-150px, -125px, 0) scale3d(.22, .22, .22);-webkit-transform:translate3d(-150px, -125px, 0) scale3d(.22, .22, .22);-moz-transform:translate3d(-150px, -125px, 0) scale3d(.22, .22, .22);animation-timing-function:ease;-webkit-animation-timing-function:ease;-moz-animation-timing-function:ease}100%{opacity:1;transform:translate3d(-152px, -125px, 0) scale3d(1, 1, 1);-webkit-transform:translate3d(-152px, -125px, 0) scale3d(1, 1, 1);-moz-transform:translate3d(-152px, -125px, 0) scale3d(1, 1, 1);animation-timing-function:linear;-webkit-animation-timing-function:linear;-moz-animation-timing-function:linear}}@-webkit-keyframes gwd-gen-o9vbgwdanimation_gwd-keyframes_label-1{0%{opacity:0;-webkit-transform:translate3d(-150px, -125px, 0) scale3d(.22, .22, .22);-webkit-animation-timing-function:linear}61.5385%{opacity:0;-webkit-transform:translate3d(-150px, -125px, 0) scale3d(.22, .22, .22);-webkit-animation-timing-function:ease}100%{opacity:1;-webkit-transform:translate3d(-152px, -125px, 0) scale3d(1, 1, 1);-webkit-animation-timing-function:linear}}@-moz-keyframes gwd-gen-o9vbgwdanimation_gwd-keyframes_label-1{0%{opacity:0;-moz-transform:translate3d(-150px, -125px, 0) scale3d(.22, .22, .22);-moz-animation-timing-function:linear}61.5385%{opacity:0;-moz-transform:translate3d(-150px, -125px, 0) scale3d(.22, .22, .22);-moz-animation-timing-function:ease}100%{opacity:1;-moz-transform:translate3d(-152px, -125px, 0) scale3d(1, 1, 1);-moz-animation-timing-function:linear}}@keyframes gwd-gen-12rzgwdanimation_gwd-keyframes_label-1{0%{opacity:0;transform:translate3d(-280px, -125px, 0);-webkit-transform:translate3d(-280px, -125px, 0);-moz-transform:translate3d(-280px, -125px, 0);animation-timing-function:linear;-webkit-animation-timing-function:linear;-moz-animation-timing-function:linear}68.75%{opacity:0;transform:translate3d(-280px, -125px, 0);-webkit-transform:translate3d(-280px, -125px, 0);-moz-transform:translate3d(-280px, -125px, 0);animation-timing-function:ease;-webkit-animation-timing-function:ease;-moz-animation-timing-function:ease}100%{opacity:1;transform:translate3d(-150px, -125px, 0);-webkit-transform:translate3d(-150px, -125px, 0);-moz-transform:translate3d(-150px, -125px, 0);animation-timing-function:linear;-webkit-animation-timing-function:linear;-moz-animation-timing-function:linear}}@-webkit-keyframes gwd-gen-12rzgwdanimation_gwd-keyframes_label-1{0%{opacity:0;-webkit-transform:translate3d(-280px, -125px, 0);-webkit-animation-timing-function:linear}68.75%{opacity:0;-webkit-transform:translate3d(-280px, -125px, 0);-webkit-animation-timing-function:ease}100%{opacity:1;-webkit-transform:translate3d(-150px, -125px, 0);-webkit-animation-timing-function:linear}}@-moz-keyframes gwd-gen-12rzgwdanimation_gwd-keyframes_label-1{0%{opacity:0;-moz-transform:translate3d(-280px, -125px, 0);-moz-animation-timing-function:linear}68.75%{opacity:0;-moz-transform:translate3d(-280px, -125px, 0);-moz-animation-timing-function:ease}100%{opacity:1;-moz-transform:translate3d(-150px, -125px, 0);-moz-animation-timing-function:linear}}@keyframes gwd-gen-q78fgwdanimation_gwd-keyframes_label-1{0%{opacity:0;transform:translate3d(-40px, -125px, 0);-webkit-transform:translate3d(-40px, -125px, 0);-moz-transform:translate3d(-40px, -125px, 0);animation-timing-function:linear;-webkit-animation-timing-function:linear;-moz-animation-timing-function:linear}73.6842%{opacity:0;transform:translate3d(-40px, -125px, 0);-webkit-transform:translate3d(-40px, -125px, 0);-moz-transform:translate3d(-40px, -125px, 0);animation-timing-function:ease;-webkit-animation-timing-function:ease;-moz-animation-timing-function:ease}100%{opacity:1;transform:translate3d(-150px, -125px, 0);-webkit-transform:translate3d(-150px, -125px, 0);-moz-transform:translate3d(-150px, -125px, 0);animation-timing-function:linear;-webkit-animation-timing-function:linear;-moz-animation-timing-function:linear}}@-webkit-keyframes gwd-gen-q78fgwdanimation_gwd-keyframes_label-1{0%{opacity:0;-webkit-transform:translate3d(-40px, -125px, 0);-webkit-animation-timing-function:linear}73.6842%{opacity:0;-webkit-transform:translate3d(-40px, -125px, 0);-webkit-animation-timing-function:ease}100%{opacity:1;-webkit-transform:translate3d(-150px, -125px, 0);-webkit-animation-timing-function:linear}}@-moz-keyframes gwd-gen-q78fgwdanimation_gwd-keyframes_label-1{0%{opacity:0;-moz-transform:translate3d(-40px, -125px, 0);-moz-animation-timing-function:linear}73.6842%{opacity:0;-moz-transform:translate3d(-40px, -125px, 0);-moz-animation-timing-function:ease}100%{opacity:1;-moz-transform:translate3d(-150px, -125px, 0);-moz-animation-timing-function:linear}}@keyframes gwd-empty-animation{0%{opacity:0.001}100%{opacity:0}}@-webkit-keyframes gwd-empty-animation{0%{opacity:0.001}100%{opacity:0}}@-moz-keyframes gwd-empty-animation{0%{opacity:0.001}100%{opacity:0}}@keyframes gwd-empty-animation_label-1{0%{opacity:0.001}100%{opacity:0}}@-webkit-keyframes gwd-empty-animation_label-1{0%{opacity:0.001}100%{opacity:0}}@-moz-keyframes gwd-empty-animation_label-1{0%{opacity:0.001}100%{opacity:0}}</style></body></html>
